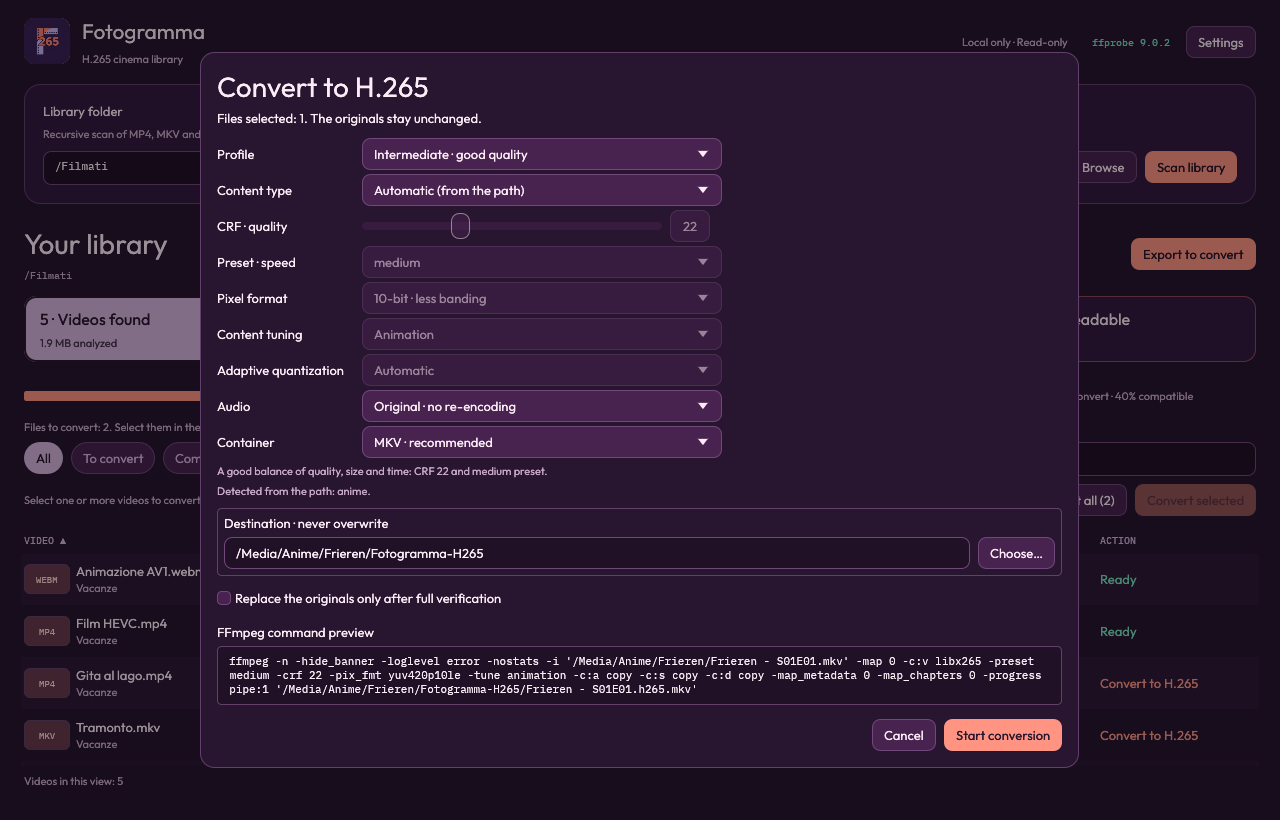
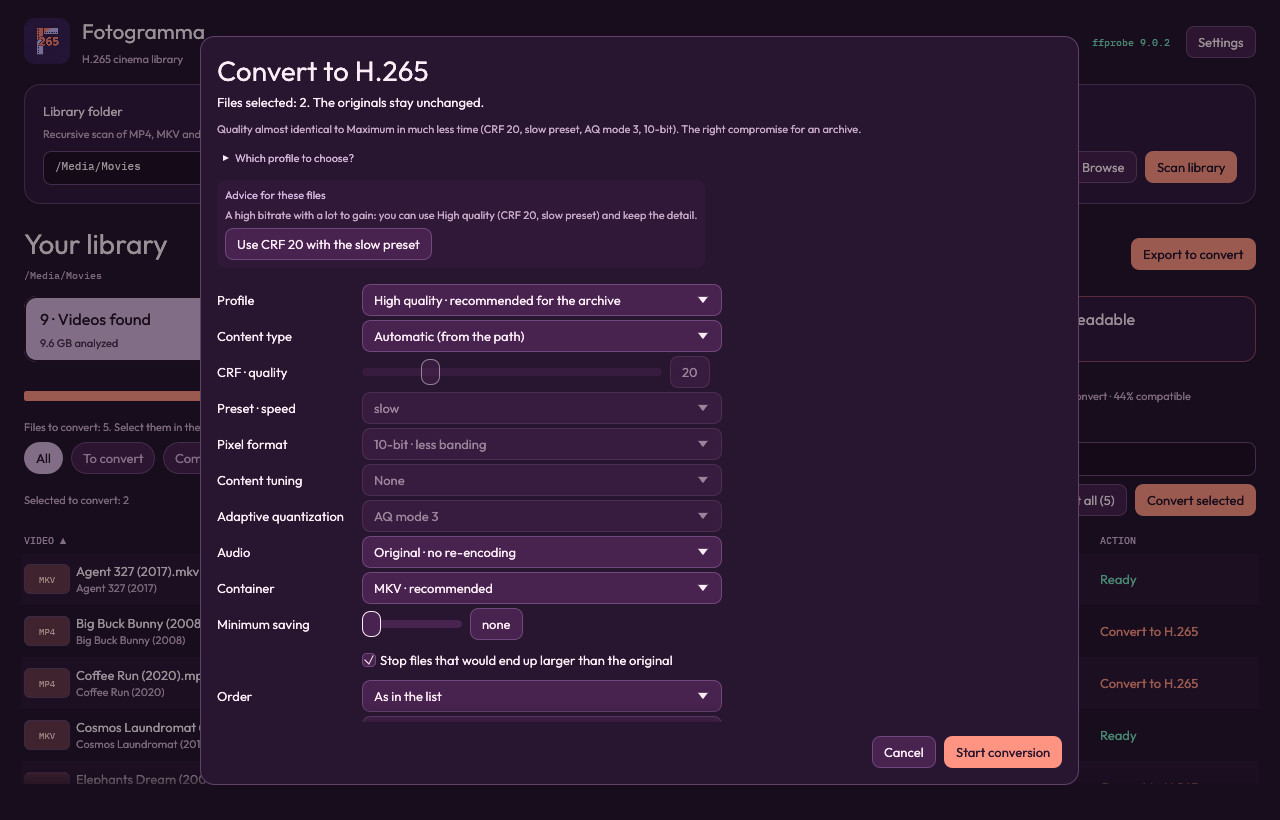
Refresh the README screenshots from the latest version
Four English screenshots of a demo library of Blender's open movies (results,
conversion window with the advice, Settings, and the progress window with the
mascot), regenerated by an ignored test so they can be redone after a change,
and the progress one added to the README.

diff --git a/crates/app/src/app.rs b/crates/app/src/app.rs
@@ -3007,4 +3007,218 @@ mod small_snapshot_tests {
         assert_eq!(dialog.preset, "slow");
         assert_ne!(dialog.crf, 20);
     }
+
+    use fotogramma_core::scanner::Category;
+
+    /// A library of Blender's open movies, for the README screenshots: nothing
+    /// in them comes from a real library.
+    fn readme_app(cc: &mut eframe::CreationContext<'_>) -> FotogrammaApp {
+        fn video(
+            name: &str,
+            folder: &str,
+            codec: &str,
+            category: Category,
+            (width, height): (u32, u32),
+            minutes_seconds: (u32, u32),
+            megabytes: u64,
+        ) -> VideoInfo {
+            VideoInfo {
+                hdr: false,
+                path: PathBuf::from(format!("/Media/Movies/{folder}/{name}")),
+                relative_path: format!("{folder}/{name}"),
+                name: name.to_string(),
+                folder: folder.to_string(),
+                extension: name.rsplit('.').next().unwrap_or("mkv").to_string(),
+                category,
+                codec: Some(codec.to_string()),
+                size: Some(megabytes * 1_000_000),
+                duration: Some(f64::from(minutes_seconds.0 * 60 + minutes_seconds.1)),
+                width: Some(width),
+                height: Some(height),
+                error: None,
+            }
+        }
+        let mut app = FotogrammaApp::new(cc);
+        app.directory = "/Media/Movies".to_string();
+        app.settings.directory = "/Media/Movies".to_string();
+        app.videos = vec![
+            video(
+                "Sintel (2010).mkv",
+                "Sintel (2010)",
+                "h264",
+                Category::Convert,
+                (1920, 818),
+                (14, 48),
+                2_140,
+            ),
+            video(
+                "Tears of Steel (2012).mkv",
+                "Tears of Steel (2012)",
+                "h264",
+                Category::Convert,
+                (1920, 800),
+                (12, 14),
+                3_480,
+            ),
+            video(
+                "Big Buck Bunny (2008).mp4",
+                "Big Buck Bunny (2008)",
+                "h264",
+                Category::Convert,
+                (1920, 1080),
+                (9, 56),
+                690,
+            ),
+            video(
+                "Elephants Dream (2006).avi",
+                "Elephants Dream (2006)",
+                "mpeg4",
+                Category::Convert,
+                (1920, 1080),
+                (10, 54),
+                1_320,
+            ),
+            video(
+                "Cosmos Laundromat (2015).mkv",
+                "Cosmos Laundromat (2015)",
+                "hevc",
+                Category::Compatible,
+                (1920, 1080),
+                (12, 10),
+                780,
+            ),
+            video(
+                "Spring (2019).mkv",
+                "Spring (2019)",
+                "av1",
+                Category::Compatible,
+                (3840, 2160),
+                (7, 44),
+                1_050,
+            ),
+            video(
+                "Agent 327 (2017).mkv",
+                "Agent 327 (2017)",
+                "hevc",
+                Category::Compatible,
+                (1920, 1080),
+                (3, 51),
+                210,
+            ),
+            video(
+                "Coffee Run (2020).mp4",
+                "Coffee Run (2020)",
+                "h264",
+                Category::Convert,
+                (1920, 1080),
+                (3, 4),
+                410,
+            ),
+            video(
+                "Hero (2018).mkv",
+                "Hero (2018)",
+                "av1",
+                Category::Compatible,
+                (1920, 1080),
+                (3, 27),
+                190,
+            ),
+        ];
+        app.summary = summarize(&app.videos, None);
+        app.page = Page::Results;
+        app.filter = FilterCategory::All;
+        app.scan_completed_once = true;
+        // Screenshots are in English whatever the machine speaks.
+        app.settings.language = "en".to_string();
+        app.apply_settings();
+        app
+    }
+
+    /// Regenerates the screenshots of the README, in English:
+    /// `cargo test -p fotogramma readme_screenshots -- --ignored`
+    #[test]
+    #[ignore]
+    fn readme_screenshots() {
+        let _lang = lang_guard();
+        set_lang(Lang::En);
+        let out = std::path::Path::new(env!("CARGO_MANIFEST_DIR")).join("../../docs/assets");
+        let shot = |name: &str, mut harness: egui_kittest::Harness<'_, FotogrammaApp>| {
+            harness.run();
+            for _ in 0..4 {
+                harness.step();
+            }
+            harness
+                .render()
+                .expect("render")
+                .save(out.join(name))
+                .expect("save");
+        };
+        let builder = || egui_kittest::Harness::builder().with_size(egui::vec2(1280.0, 820.0));
+
+        let pick = |app: &mut FotogrammaApp| {
+            for name in ["Sintel (2010)", "Tears of Steel (2012)"] {
+                app.selected
+                    .insert(PathBuf::from(format!("/Media/Movies/{name}/{name}.mkv")));
+            }
+        };
+        // A little taller, so every row of this one is whole.
+        shot(
+            "fotogramma-native-results.png",
+            egui_kittest::Harness::builder()
+                .with_size(egui::vec2(1280.0, 880.0))
+                .build_eframe(|cc| {
+                    let mut app = readme_app(cc);
+                    app.filter = FilterCategory::Convert;
+                    pick(&mut app);
+                    app
+                }),
+        );
+
+        shot(
+            "fotogramma-conversion-dialog.png",
+            builder().build_eframe(|cc| {
+                let mut app = readme_app(cc);
+                app.settings.default_profile = "high_quality".to_string();
+                pick(&mut app);
+                let selected = app.selected_videos();
+                app.conversion_dialog = Some(ConversionDialog::new(selected, &app.settings));
+                app
+            }),
+        );
+
+        shot(
+            "fotogramma-settings.png",
+            builder().build_eframe(|cc| {
+                let mut app = readme_app(cc);
+                app.settings.update_choice_made = true;
+                app.show_settings = true;
+                app
+            }),
+        );
+
+        shot(
+            "fotogramma-conversion-progress.png",
+            builder().build_eframe(|cc| {
+                let mut app = readme_app(cc);
+                let videos: Vec<VideoInfo> = app
+                    .videos
+                    .iter()
+                    .filter(|video| video.category == Category::Convert)
+                    .take(3)
+                    .cloned()
+                    .collect();
+                let _sender = running_session(&mut app, videos);
+                let session = app.session.as_mut().unwrap();
+                session.percent = 63;
+                session.label =
+                    "2 / 3 · Tears of Steel (2012).mkv · 63% · about 38 min left".to_string();
+                session.log = vec![
+                    "Start: /Media/Movies/Sintel (2010)/Sintel (2010).mkv\nOutput: /Media/Movies/Sintel (2010)/Fotogramma-H265/Sintel (2010).h265.mkv".to_string(),
+                    "Completed ✓ · /Media/Movies/Sintel (2010)/Fotogramma-H265/Sintel (2010).h265.mkv · 2.1 GB instead of 4.9 GB (-57%)".to_string(),
+                    "Start: /Media/Movies/Tears of Steel (2012)/Tears of Steel (2012).mkv\nOutput: /Media/Movies/Tears of Steel (2012)/Fotogramma-H265/Tears of Steel (2012).h265.mkv".to_string(),
+                ];
+                app
+            }),
+        );
+    }
 }

diff --git a/AGENTS.md b/AGENTS.md
@@ -31,6 +31,9 @@ cargo test --workspace
 # Update the four egui_kittest snapshots after an intentional layout change
 UPDATE_SNAPSHOTS=1 cargo test -p fotogramma snapshot
 
+# Regenerate the README screenshots in docs/assets (English, a demo library of Blender's open movies, never real files)
+cargo test -p fotogramma readme_screenshots -- --ignored
+
 # Minimal FFmpeg (macOS/Linux), then package and enforce the size budget
 deployment/ffmpeg/build_minimal.sh
 python3 deployment/build_rust.py

diff --git a/README.md b/README.md
@@ -65,6 +65,8 @@ Fotogramma is the one that shows you the library first (what is not H.265, how m
 - Original application icon and Cinema Pop theme.
 - No videos are modified during inspection. No media or metadata is uploaded during scanning or conversion.
 
+![Conversion in progress, with the mascot running to the TV](docs/assets/fotogramma-conversion-progress.png)
+
 ## Settings
 
 ![Settings window](docs/assets/fotogramma-settings.png)
